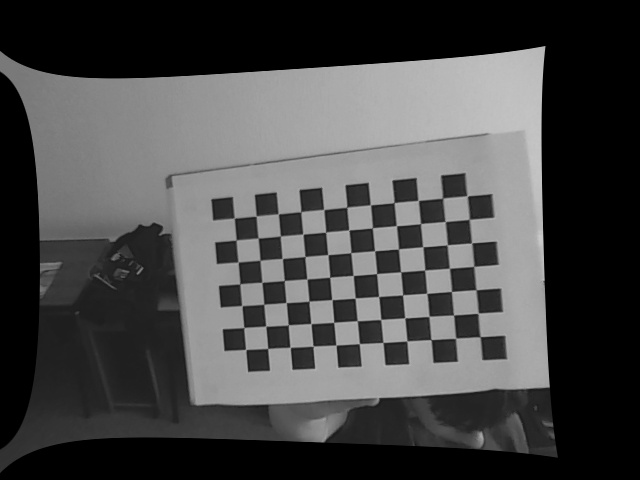
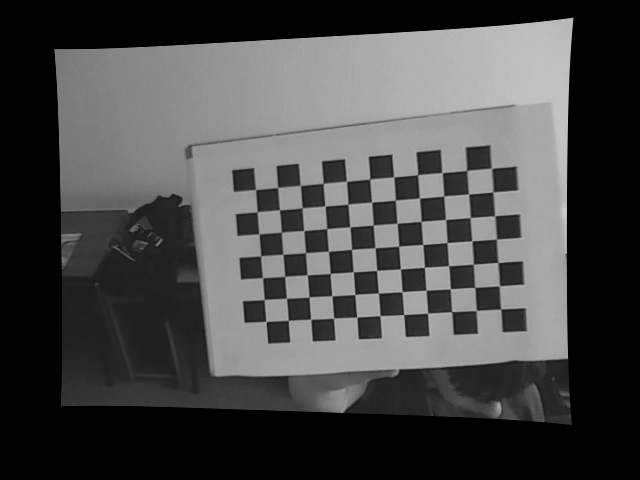
first ver of rectifyer

diff --git a/rect.cpp b/rect.cpp
@@ -1,0 +1,61 @@
+#include "opencv2/calib3d/calib3d.hpp"
+#include "opencv2/highgui/highgui.hpp"
+#include "opencv2/imgproc/imgproc.hpp"
+
+#include <vector>
+#include <string>
+#include <algorithm>
+#include <iostream>
+#include <iterator>
+#include <stdio.h>
+#include <stdlib.h>
+#include <ctype.h>
+
+cv::Mat** loadRMap(const char* intrinsics, const char* extrinsics, cv::Size imageSize)
+{
+    cv::FileStorage fsi(intrinsics, cv::FileStorage::READ);
+    cv::Mat cameraMatrix[2], distCoeffs[2];
+    fsi["M1"] >> cameraMatrix[0];
+    fsi["M2"] >> cameraMatrix[1];
+    fsi["D1"] >> distCoeffs[0];
+    fsi["D2"] >> distCoeffs[1];
+    cv::FileStorage fse(extrinsics, cv::FileStorage::READ);
+    cv::Mat R, T, E, F;
+    cv::Mat R1, R2, P1, P2, Q;
+    fse["R"] >> R;
+    fse["T"] >> T;
+    fse["Q"] >> Q;
+    fse["R1"] >> R1;
+    fse["R2"] >> R2;
+    fse["P1"] >> P1;
+    fse["P2"] >> P2;
+    cv::Mat** rmap = new cv::Mat*[2];
+    rmap[0] = new cv::Mat[2];
+    rmap[1] = new cv::Mat[2];
+    cv::initUndistortRectifyMap(cameraMatrix[0], distCoeffs[0], R1, P1, imageSize, CV_16SC2, rmap[0][0], rmap[0][1]);
+    cv::initUndistortRectifyMap(cameraMatrix[1], distCoeffs[1], R2, P2, imageSize, CV_16SC2, rmap[1][0], rmap[1][1]);
+    return rmap;
+}
+
+int main(int argc, char** argv)
+{
+    cv::Size imageSize(640, 480);
+    //cv::Mat rmap[2][2];
+    //cv::Mat** rmap = loadRMap("intrinsics.yml", "extrinsics.yml", imageSize);
+    cv::Mat** rmap = loadRMap(argv[1], argv[2], imageSize);
+    
+    cv::Mat img = cv::imread("chess_photo/left0.jpg", 0), rimg, cimg;
+    cv::remap(img, rimg, rmap[0][0], rmap[0][1], CV_INTER_LINEAR);
+    cv::cvtColor(rimg, cimg, CV_GRAY2BGR);
+    cv::imshow("l", cimg);
+    cv::imwrite("l.jpg", cimg);
+    
+    img = cv::imread("chess_photo/right0.jpg", 0);
+    cv::remap(img, rimg, rmap[1][0], rmap[1][1], CV_INTER_LINEAR);
+    cv::cvtColor(rimg, cimg, CV_GRAY2BGR);
+    cv::imshow("r", cimg);
+    cv::imwrite("r.jpg", cimg);
+    cv::waitKey();
+
+    return 0;
+}        

diff --git a/chess_photo/rect.cpp b/chess_photo/rect.cpp
@@ -435,7 +435,7 @@ int main(int argc, char** argv)
     cv::imshow("l", cimg);
     cv::imwrite("l.jpg", cimg);
     img = cv::imread("right0.jpg", 0);
-    cv::remap(img, rimg, rmap[0][0], rmap[0][1], CV_INTER_LINEAR);
+    cv::remap(img, rimg, rmap[1][0], rmap[1][1], CV_INTER_LINEAR);
     cv::cvtColor(rimg, cimg, CV_GRAY2BGR);
     cv::imshow("r", cimg);
     cv::imwrite("r.jpg", cimg);
